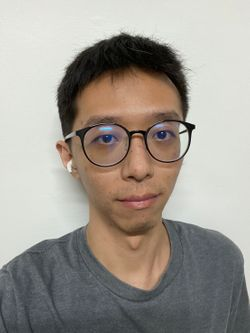
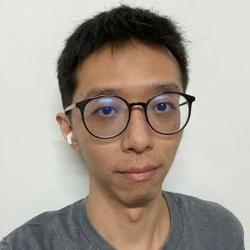
new picture

diff --git a/index.html b/index.html
@@ -5,7 +5,7 @@
 		<title>Boris Chen</title>
 		<link rel="stylesheet" href="style.css" >
 	</head>
-<body><article id="98c07f64-bf58-4dea-9bbc-309de7d12747" class="page sans"><div class="page-body"><div id="71c48d70-e3c0-4a96-9910-8e75f16f9492" class="column-list"><div id="c3ebe44a-0e5b-44f1-9f12-98054faa8cf9" style="width:50.000000000000014%" class="column"><p id="74412dab-99b0-4da5-b935-ce7d094c8a8d" class=""><h1 id="65247e72-d95b-4e75-9e68-59446b8e3ad7" class=""><strong>Boris Chen</strong></h1></p></div><div id="b0685168-97e7-4112-8fbe-3fcb268bf1ea" style="width:50.00000000000002%" class="column"><p id="dcb91fa4-4791-4de7-9ace-ab1d5faf3f2d" class="">📧 <a href="mailto:bycxen@gmail.com">bycxen@gmail.com</a>, Chen Po-Ying</p></div></div><div id="a0ad44f0-bfad-478c-98e5-fd1413988287" class="column-list"><div id="ed66822a-6c10-483d-883c-7017a2626216" style="width:18.75%" class="column"><figure id="a0f191ea-f2a3-4e45-a3c7-0724d56007e6" class="image"><a href="Boris%20Chen%20a0f191eaf2a34e45a3c70724d56007e6/S__17506310.jpg"><img style="width:150px;height: 150px;border-radius: 50%;" src="Boris%20Chen%20a0f191eaf2a34e45a3c70724d56007e6/S__17506310.jpg"/></a></figure></div><div id="645d6323-360b-4ed9-bb71-4ce3ede322f8" style="width:81.25%" class="column"><p id="4e5bc451-9a70-4318-a72e-cf2e6c8c5d64" class=""><strong>A software developer with 4 years experience. I joined tens of project from requirements to developments. I have perspective for project roadmap design. Meanwhile, I am a member of Taiwan Agile Community. I know the basic scrum/kanban knowledges and I am willing to share the experiences with team.</strong></p></div></div><div id="77d06f81-1319-4e19-b644-cfd44536aa40" class="column-list"><div id="11639f75-22fd-40d8-af1c-864c7b9108a9" style="width:31.25%" class="column"><h3 id="65247e72-d95b-4e75-9e68-59446b8e3ad7" class="">🛠 SKILLS</h3><p id="b34f4ef2-3c4b-4cbb-b5df-45ea5a2c924c" class="">💻 <strong>Program</strong></p><p id="cb467e3d-84ca-48ae-93e1-f9f60a024ed6" class="">Express.js
+<body><article id="98c07f64-bf58-4dea-9bbc-309de7d12747" class="page sans"><div class="page-body"><div id="a0ad44f0-bfad-478c-98e5-fd1413988287" class="column-list"><div id="ed66822a-6c10-483d-883c-7017a2626216" style="width:18.75%" class="column"><figure id="a0f191ea-f2a3-4e45-a3c7-0724d56007e6" class="image"><a href="Boris%20Chen%20a0f191eaf2a34e45a3c70724d56007e6/S__17506310.jpg"><img style="width:125px;height: 125px;border-radius: 50%;pointer-events: auto;" src="Boris%20Chen%20a0f191eaf2a34e45a3c70724d56007e6/S__17506310.jpg"/></a></figure></div><div id="645d6323-360b-4ed9-bb71-4ce3ede322f8" style="width:81.25%" class="column"><h1 id="3720af69-b69b-4c5a-b5c2-d819835aa540" class="" style="display: inline;">Boris Chen</h1> <p id="74412dab-99b0-4da5-b935-ce7d094c8a8d" class="" style="display: inline;">📧 <a href="mailto:bycxen@gmail.com">bycxen@gmail.com</a></p><p id="4e5bc451-9a70-4318-a72e-cf2e6c8c5d64" class=""><strong>A software developer with 4 years experience. I joined tens of project from requirements to developments. I have perspective for project roadmap design. Meanwhile, I am a member of Taiwan Agile Community. I know the basic scrum/kanban knowledges and I am willing to share the experiences with team.</strong></p></div></div><div id="77d06f81-1319-4e19-b644-cfd44536aa40" class="column-list"><div id="11639f75-22fd-40d8-af1c-864c7b9108a9" style="width:31.25%" class="column"><h3 id="65247e72-d95b-4e75-9e68-59446b8e3ad7" class="">🛠 SKILLS</h3><p id="b34f4ef2-3c4b-4cbb-b5df-45ea5a2c924c" class="">💻 <strong>Program</strong></p><p id="cb467e3d-84ca-48ae-93e1-f9f60a024ed6" class="">Express.js
 Socket.io
 React.js
 Java/Sprint Boot</p><p id="02c187da-6322-4f6c-9e46-1a6f998c99f9" class="">🥞 <strong>Database</strong></p><p id="3f0b7ace-33dc-4988-a071-8d15ec87f1eb" class="">Mysql
@@ -20,6 +20,7 @@ Nginx
 Linux (<strong>LPIC-1</strong>)</p><p id="5f387c59-df79-4c18-b3d0-98e15670ff41" class="">🏈 <strong>Management</strong></p><p id="a5c26192-03ec-47ce-a01d-f93133617a9e" class="">Scrum
 Kanban</p><hr id="5d9d28c1-9331-46a5-ac9e-577fc01c2d39"/><h3 id="26158089-2b37-446c-bd09-c3d542964bed" class=""><strong>🗣 LANGUAGE</strong></h3><p id="794535a1-97d2-4451-b6fa-151677db07a8" class=""><strong>English</strong></p><p id="7bbe108a-5f7d-4c71-b09a-3704ac2cc32c" class="">medium</p></div><div id="84df47da-9543-4f34-ba92-d5a6c92ff4f6" style="width:68.75%" class="column"><h3 id="41e51b37-1ba0-4b40-8751-973cc358c352" class="">🏋🏻♂ EXPERIENCE</h3><p id="8ed1c6c2-d673-40b7-81de-0048cc93c90b" class=""><strong>SOFTWARE DEVELOPER
 </strong><em>GAMA technology, Taichung, Taiwan – (Dec 2016 ~ Jul 2020)</em></p><ul id="f631e2db-26d6-4096-8695-11a37dcb3cf0" class="bulleted-list"><li>Maintained nodejs/express backend service and integrated 3-party services like payment, email and sms service.</li></ul><ul id="05a8efa0-36ff-4bb1-826b-5991ce9216d9" class="bulleted-list"><li>Implemented Infrastructure pipeline for CI/CD by Bitbucket, Jira, Jenkins, Ansible, Helm, Docker and google GKE service.</li></ul><ul id="e5784763-ca48-4fa7-b9d4-e38db7b7da51" class="bulleted-list"><li>Experience of backend APIs using Java/SpringBoot and MYSQL server. </li></ul><ul id="3a90fd70-708d-4a51-80f2-0ce1c42529dc" class="bulleted-list"><li>Implemented Jira workflow in web project.</li></ul><p id="4341de5c-8ac0-4d6f-9173-14975edb8a81" class=""><strong>IC TEST ENGINEER
-</strong><em>BEST-iic, Kaohsiung, Taiwan – (Jul 2015 ~ Dec 2016)</em></p><ul id="6f9787df-1c45-4e8b-bf5c-b427ae6f1119" class="bulleted-list"><li>Designed loadboard circuit and program testing cases for product owners. </li></ul><ul id="298165d7-e300-4a3f-8e93-8ae98ee62875" class="bulleted-list"><li>Cooperated with partners, including TSMC, MTK etc., to design the test cases.</li></ul><ul id="914dc4fc-a227-422b-903c-c3d1c2b10819" class="bulleted-list"><li>Managed both bare die testing and packaged testing.</li></ul><p id="3e626791-e446-4614-a0cb-f20f339bb212" class=""><strong>COMMUNITY</strong></p><ul id="bf9c48e8-c281-4e0d-bc99-193df6b11ac8" class="bulleted-list"><li><strong>Agile Community Taiwen</strong><ul id="cc5a0f3c-8205-4f9c-9ef6-c4498a587a04" class="bulleted-list"><li>Agile Tour Taichung - <em>2019 staff</em></li></ul></li></ul><ul id="94c38337-9626-49ed-8859-6c0bcfc18b3f" class="bulleted-list"><li>DevOpsDays Taipei - <em>2019 attendee</em></li></ul><hr id="f728a258-93a7-43d9-a347-28b858c8aaf8"/><h3 id="cb244e3c-c3ab-4124-a9f3-7fbe20209017" class=""><strong>📚 EDUCATION</strong></h3><p id="ae0dad9c-61da-415d-be63-ead5e1658a91" class=""><strong>National Tsing Hua University, 
+</strong><em>BEST-iic, Kaohsiung, Taiwan – (Jul 2015 ~ Dec 2016)</em></p><ul id="6f9787df-1c45-4e8b-bf5c-b427ae6f1119" class="bulleted-list"><li>Designed loadboard circuit and program testing cases for product owners. </li></ul><ul id="298165d7-e300-4a3f-8e93-8ae98ee62875" class="bulleted-list"><li>Cooperated with partners, including TSMC, MTK etc., to design the test cases.</li></ul><ul id="914dc4fc-a227-422b-903c-c3d1c2b10819" class="bulleted-list"><li>Managed both bare die testing and packaged testing.</li></ul><p id="3e626791-e446-4614-a0cb-f20f339bb212" class=""><strong>COMMUNITY</strong></p><ul id="bf9c48e8-c281-4e0d-bc99-193df6b11ac8" class="bulleted-list"><li><strong>Agile Community Taiwen
+</strong>Agile Tour Taichung - <em>2019 staff</em></li></ul><ul id="94c38337-9626-49ed-8859-6c0bcfc18b3f" class="bulleted-list"><li>DevOpsDays Taipei - <em>2019 attendee</em></li></ul><hr id="f728a258-93a7-43d9-a347-28b858c8aaf8"/><h3 id="cb244e3c-c3ab-4124-a9f3-7fbe20209017" class=""><strong>📚 EDUCATION</strong></h3><p id="ae0dad9c-61da-415d-be63-ead5e1658a91" class=""><strong>National Tsing Hua University, 
 Department of Electrical Engineering</strong></p><p id="e7145df2-fd44-48f6-905e-926f46a02482" class="">bachelor degree, <em>2009 - 2014</em></p><hr id="9dafb737-2950-43bd-91a0-c4937987b44a"/><h3 id="8c732997-fd64-44e9-89be-624e0b75b093" class="">🔖 <strong>CERTIFICATE</strong></h3><ul id="117b144b-e1f1-4d70-9070-26f3e756a333" class="bulleted-list"><li><strong>LPIC-1 </strong><a href="https://www.lpi.org/verify/LPI000431967/c9mb56cs25"><strong>certifacation</strong></a></li></ul></div></div><div id="d709c022-9f13-4e09-9ab0-389b38f9ddf2" class="column-list"><div id="bf52c211-af17-4363-8e01-6a2979f546c4" style="width:62.5%" class="column"></div><div id="9f764355-3152-4187-b111-d87dbe43fce4" style="width:37.5%" class="column"></div></div><div id="987d4d11-e200-45e2-b347-c74f591a77d4" class="column-list"><div id="d9b8bf18-b2d1-4e8f-bfd7-251e20bef64a" style="width:62.5%" class="column"></div><div id="4baccacc-38cb-4bc1-b953-49dcfcdd03da" style="width:37.49999999999999%" class="column"></div></div></div></article></body>
 </html>
